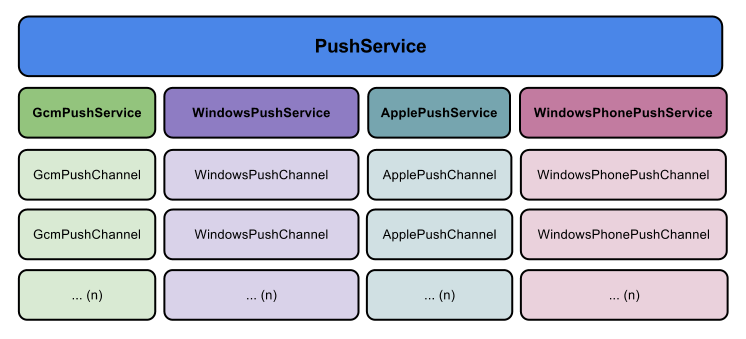
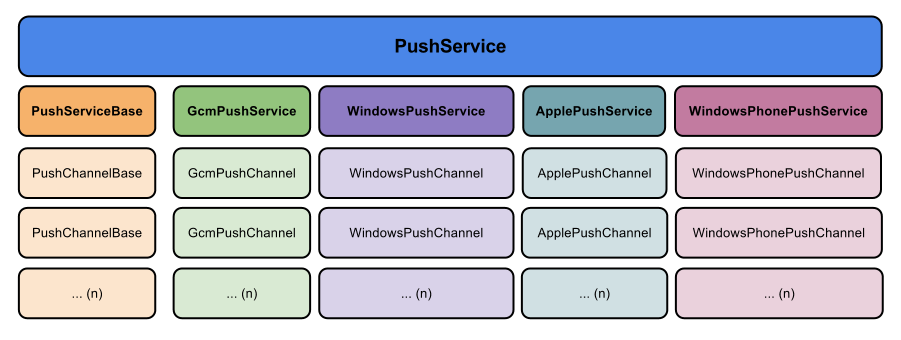
Added Library Structure info to readme

diff --git a/README.md b/README.md
@@ -90,6 +90,33 @@ push.QueueNotification(NotificationFactory.Android()
 	.WithJson("{\"alert\":\"Alert Text!\",\"badge\":\"7\"}"));
 ```	
 	
+The Bare Metal
+-----------------
+The primary goal of PushSharp is to allow you to ***easily*** send notifications without thinking to much about it.  However, there are going to be cases where you want more raw power.  Luckily, PushSharp was designed with that in mind!  See the diagram and explanation of the structure of PushSharp below:
+
+![PushSharp Structure Diagram](https://github.com/Redth/PushSharp/raw/master/Resources/PushSharp-Structure.png)
+
+PushSharp is composed of several tiers with each higher tier building upon the lower.
+
+**PushService**
+
+The purpose of PushService is to group all of the various push service platforms into a single class, so you have a single starting point for using all the services.
+
+**PushServiceBase** 
+
+Each platform has its own implementation of the PushServiceBase class.  The PushServiceBase for each platform is responsible for maintaining a collection of instances of PushChannelBase and distribute Queued notifications to them.  
+
+Settings for the PushServiceBase instance can be changed through the PushServiceSettings object.  By default the PushServiceBase instance will attempt to auto scale up and down the instances of PushChannelBase, however this behaviour can be changed in the settings.  Each platform has an implementation of PushServiceBase (eg: ApplePushService, GcmPushService, WindowsPushService, etc.).
+
+**PushChannelBase**
+
+The Channel instance is the closest to the metal that you can get in PushSharp.  Each PushChannelBase instance represents a single *connection* or a single *channel* to the push service provider's cloud service.  In the case of Apple (ApplePushChannel), this means a single, open, TCP Socket connection to Apple's Push Notification gateway server.  However in the case of GCM, and Windows/WindowsPhone because the notification protocol is HTTP, it represents a single queue and a single worker for processing that queue.  
+
+PushChannelBase requires a PushChannelSettings which has a different implementation for each platform (each platform requires different parameters for connecting to the platform's specific cloud service - eg: ApplePushChannelSettings, GcmPushChannelSettings, WindowsPushChannelSettings, etc).  
+
+You can create instances of any of the implementations of PushChannelBase (ApplePushChannel, GcmPushChannel, WindowsPushChannel, etc.) and queue notifications to them directly, bypassing any of the PushService channel management features in the library, so that you are able to implement scaling as you see fit!
+
+
 
 **MonoTouch** and **Mono for Android** Client Application Integration
 ---------------------------------------------------------------------
